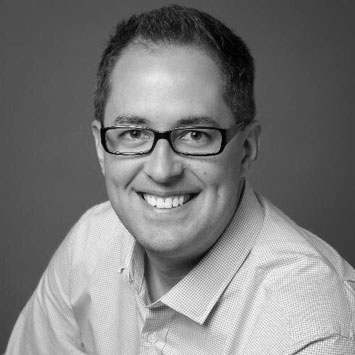
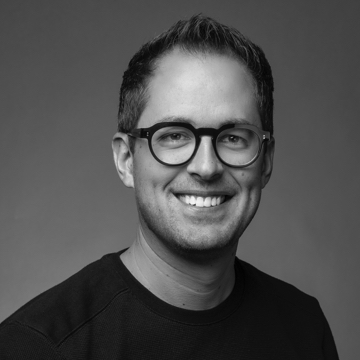
Minor text updates, speaker shift, Speaker photo updates, Schedule tweaks

diff --git a/index.html b/index.html
@@ -43,7 +43,7 @@
 					<img src="images/profile-cap-watkins.jpg" alt="Cap Watkins" class="picture">
 					<div class="speaker-info primary">
 						<h3 class="name">Cap Watkins</h3>
-						<h4 class="title">VP, DESIGN <br>BUZZFEED</h4>
+                        <h4 class="title">VP, DESIGN <br>BUZZFEED</h4>
 					</div>
 				</div>
 				<div class="speaker">
@@ -86,7 +86,7 @@
 					<img src="images/profile-kyle-jacobsen.jpg" alt="Kyle Jacobsen" class="picture">
 					<div class="speaker-info secondary">
 						<h3 class="name">Kyle Jacobsen</h3>
-						<h4 class="title">PRODUCT MANAGER <br>INSTRUCTURE</h4>
+						<h4 class="title">PRODUCT MANAGER <br>PLURALSIGHT</h4>
 					</div>
 				</div>
 				<div class="speaker">
@@ -110,8 +110,6 @@
 						<h4 class="title">CSS AND JAVASCRIPT EXPERT <br>ADOBE</h4>
 					</div>
 				</div>
-
-				
 				<div class="speaker">
 					<img src="images/profile-bob-baxley.jpg" alt="Bob Baxley" class="picture">
 					<div class="speaker-info primary">
@@ -158,7 +156,7 @@
 					<img src="images/profile-david-platt.jpg" alt="David Platt" class="picture">
 					<div class="speaker-info secondary">
 						<h3 class="name">David Platt</h3>
-						<h4 class="title">DR, PRODUCT MANAGEMENT PLURALSIGHT</h4>
+						<h4 class="title">DR, PRODUCT MANAGEMENT <br>PLURALSIGHT</h4>
 					</div>
 				</div>
 				<div class="speaker">
@@ -175,12 +173,8 @@
 						<h4 class="title">LEAD UX DESIGNER <br>PLURALSIGHT</h4>
 					</div>
 				</div>
-				<div class="speaker">
-					<img src="images/profile-blank.jpg" alt="Someone Wonderful" class="picture">
-					<div class="speaker-info secondary">
-						<h3 class="name">Someone Wonderful</h3>
-						<h4 class="title">VP, PRODUCT MANAGEMENT<br>GREATE COMPANY</h4>
-					</div>
+                <div class="speaker">
+					
 				</div>
 			</section>
 			<section class="tickets" id="reserve">
@@ -274,7 +268,7 @@
 						</div>
 						<div class="time-primary">
 							<p class="time">9:10 AM</p>
-							<p class="event secondary">Talk: Kyle Jacobson</p>
+							<p class="event secondary">Talk: Kyle Jacobsen</p>
 						</div>
 						<div class="time-primary">
 							<p class="time">9:50 AM</p>
@@ -318,15 +312,15 @@
 			<section class="sponsors" id="sponsors">
 				<div class="content">
 					<h1>Sponsors</h1>
-					<a href="https://www.pluralsight.com"><img src="images/sponsor-pluralsight.svg" alt="Pluralsight Logo" class="pluralsight-logo"></a>
-					<a href="http://www.octanner.com"><img src="images/sponsor-octanner.svg" alt="O.C. Tanner Logo"></a>
-					<a href="http://www.overstock.com"><img src="images/sponsor-overstock.svg" alt="Overstock Logo"></a>
-					<a href="http://marketing.rakuten.com"><img src="images/sponsor-rakuten-marketing.svg" alt="Rakuten Marketing Logo"></a>
-					<a href="http://clearlink.com"><img src="images/sponsor-clearlink.png" alt="Clearlink Logo"></a>
-					<a href="https://nvite.com"><img src="images/sponsor-nvite.svg" alt="Nvite Logo"></a>
-					<a href="https://www.fullstory.com"><img src="images/sponsor-fullstory.svg" alt="Fullstory Logo"></a>
-					<a href="https://balsamiq.com"><img src="images/sponsor-balsamiq.svg" alt="Balsamiq Logo"></a>
-					<a href="http://xmission.com"><img src="images/sponsor-xmission.svg" alt="XMission Logo"></a>
+					<a href="http://www.pluralsight.com" target="_blank"><img src="images/sponsor-pluralsight.svg" alt="Pluralsight Logo" class="pluralsight-logo"></a>
+					<a href="http://octanner.com" target="_blank"><img src="images/sponsor-octanner.svg" alt="O.C. Tanner Logo"></a>
+					<a href="http://www.overstock.com" target="_blank"><img src="images/sponsor-overstock.svg" alt="Overstock Logo"></a>
+					<a href="http://marketing.rakuten.com" target="_blank"><img src="images/sponsor-rakuten-marketing.svg" alt="Rakuten Marketing Logo"></a>
+					<a href="http://clearlink.com" target="_blank"><img src="images/sponsor-clearlink.png" alt="Clearlink Logo"></a>
+					<a href="https://nvite.com" target="_blank"><img src="images/sponsor-nvite.svg" alt="Nvite Logo"></a>
+					<a href="https://www.fullstory.com" target="_blank"><img src="images/sponsor-fullstory.svg" alt="Fullstory Logo"></a>
+					<a href="https://balsamiq.com" target="_blank"><img src="images/sponsor-balsamiq.svg" alt="Balsamiq Logo"></a>
+					<a href="http://xmission.com" target="_blank"><img src="images/sponsor-xmission.svg" alt="XMission Logo"></a>
 					<h2>Your product or brand should be seen at the Front!</h2>
 					<p>We’re looking for great companies to help support Front conferece. Become a sponsor.</p>
 					<a href="/front_sponsorship_2016.pdf" class="btn--orange">DOWNLOAD BROCHURE</a>
@@ -392,7 +386,7 @@
 		<script src="scripts/front2016.js"></script>
 		<script src="https://cdnjs.cloudflare.com/ajax/libs/jquery-scrollTo/2.1.2/jquery.scrollTo.min.js"></script>
 		<script src="https://maxcdn.bootstrapcdn.com/bootstrap/3.3.6/js/bootstrap.min.js" integrity="sha256-KXn5puMvxCw+dAYznun+drMdG1IFl3agK0p/pqT9KAo= sha512-2e8qq0ETcfWRI4HJBzQiA3UoyFk6tbNyG+qSaIBZLyW9Xf3sWZHN/lxe9fTh1U45DpPf07yj94KsUHHWe4Yk1A==" crossorigin="anonymous"></script>
-		<script src="https://use.typekit.net/ekw2vnc.js"></script>
+        <script src="https://use.typekit.net/cwj6ram.js"></script>
 		<script>try{Typekit.load({ async: true });}catch(e){}</script>
 		<script>
 			$(function(){

diff --git a/styles/less/front2016.less b/styles/less/front2016.less
@@ -133,7 +133,7 @@ body {
 .btn--orange-outline{
 	.btn();
 	background-color: transparent;
-	border: solid 2px @color-orange;
+	border: solid 1px @color-orange;
 	color: @color-orange;
 
 	outline: none;
@@ -199,7 +199,6 @@ nav {
 		width: 12rem;
 		display: block;
 		float: left;
-		
 		@media screen and (min-width: @screen-sm) {
 			width: 20rem;
 			margin-bottom: 1rem;
@@ -816,12 +815,15 @@ section.schedule {
 	.day {
 		font-size: .6em;
 		display: block;
+		text-transform: uppercase;
+		font-weight: 100;
+		margin-top: 5px;
 	}
 	button {
 		text-transform: capitalize;
 	}
 	button:not(:last-child) {
-		margin-right: 0.5rem;
+		margin-right: 2rem;
 	}
 	.time-secondary {
 		padding: 1rem 0 0;
@@ -865,11 +867,11 @@ section.schedule {
 			display: inline-block;
 		}
 		.time.time {
-			width: 50%;
+			width: 45%;
 			float: left;
 			text-align: right;
 			font-size: 0.7em;
-			padding: 0 24px;
+			padding: 0 38px;
 			margin: 0;
 			line-height: 3rem;
 			margin-right: -.5em;
@@ -878,10 +880,10 @@ section.schedule {
 		}
 
 		.event.event {
-			width: 50%;
+			width: 55%;
 			float: right;
 			text-align: left;
-			padding: 0 24px;
+			padding: 0 38px;
 			margin: 0;
 			line-height: 3rem;
 			position: relative;

diff --git a/styles/css/front2016.css b/styles/css/front2016.css
@@ -82,7 +82,7 @@ body {
   text-decoration: none;
   font-size: 18px;
   background-color: transparent;
-  border: solid 2px #ff7d00;
+  border: solid 1px #ff7d00;
   color: #ff7d00;
   outline: none;
 }
@@ -834,12 +834,15 @@ section.schedule h1 {
 section.schedule .day {
   font-size: .6em;
   display: block;
+  text-transform: uppercase;
+  font-weight: 100;
+  margin-top: 5px;
 }
 section.schedule button {
   text-transform: capitalize;
 }
 section.schedule button:not(:last-child) {
-  margin-right: 0.5rem;
+  margin-right: 2rem;
 }
 section.schedule .time-secondary {
   padding: 1rem 0 0;
@@ -887,21 +890,21 @@ section.schedule .time-primary .event {
     display: inline-block;
   }
   section.schedule .time.time {
-    width: 50%;
+    width: 45%;
     float: left;
     text-align: right;
     font-size: 0.7em;
-    padding: 0 24px;
+    padding: 0 38px;
     margin: 0;
     line-height: 3rem;
     margin-right: -0.5em;
     border-right: solid 2px #a9a9a9;
   }
   section.schedule .event.event {
-    width: 50%;
+    width: 55%;
     float: right;
     text-align: left;
-    padding: 0 24px;
+    padding: 0 38px;
     margin: 0;
     line-height: 3rem;
     position: relative;
